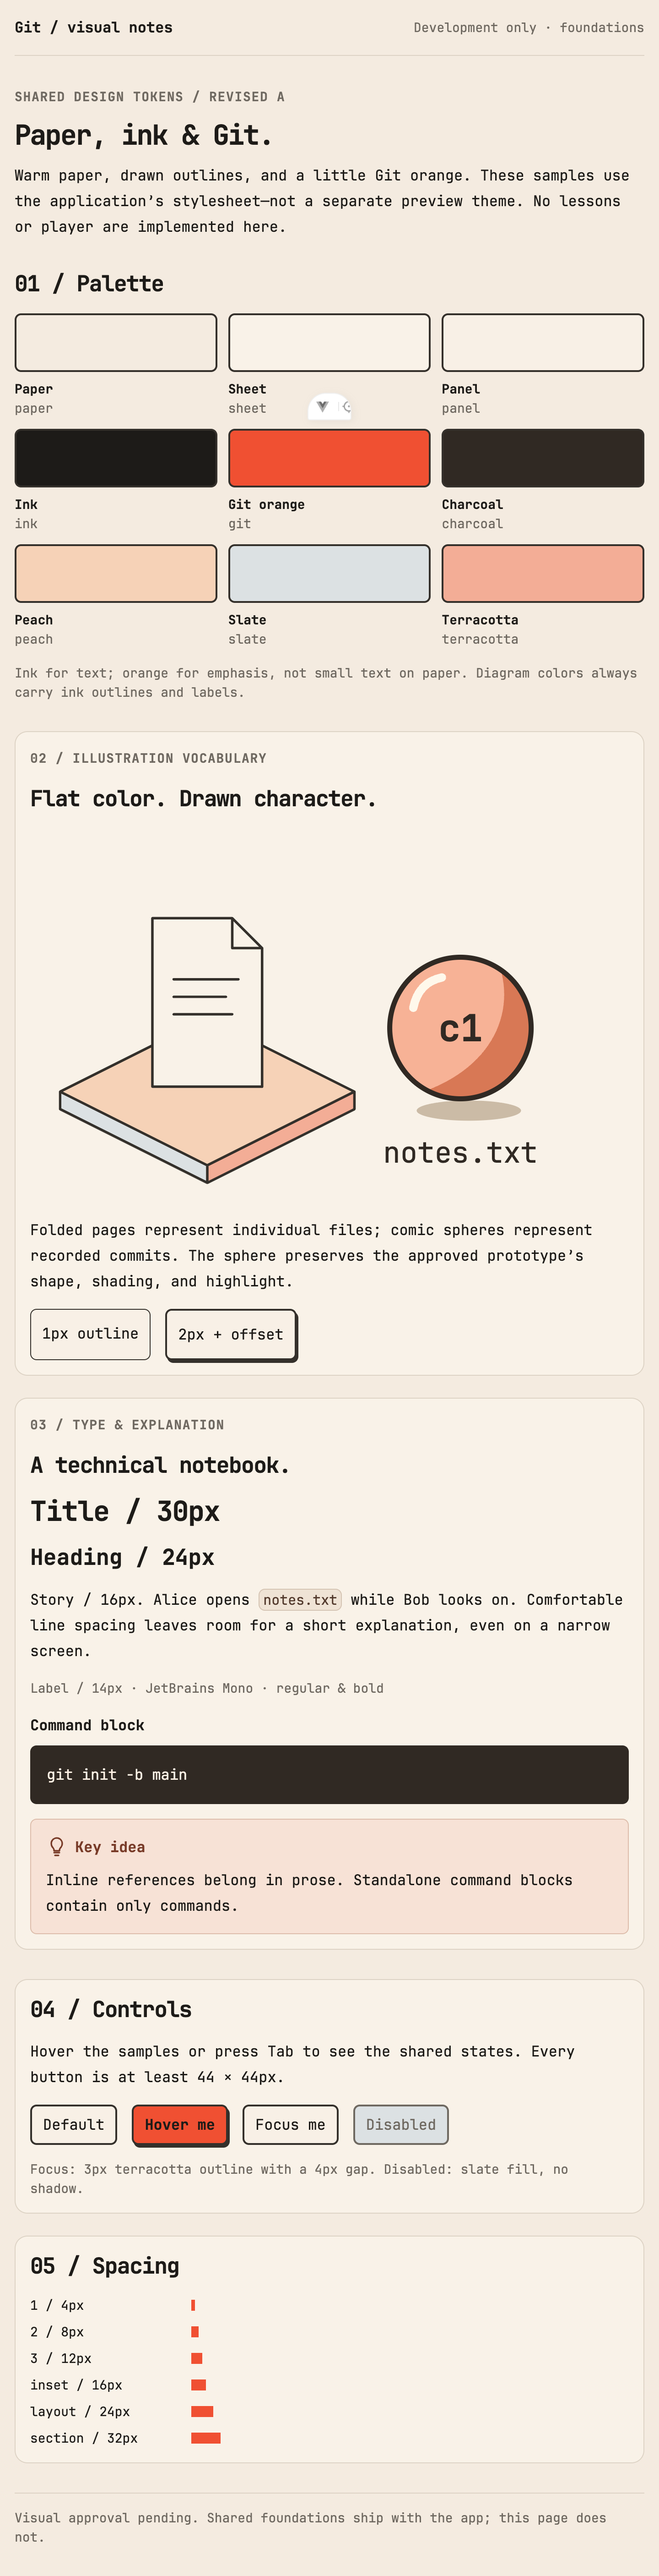
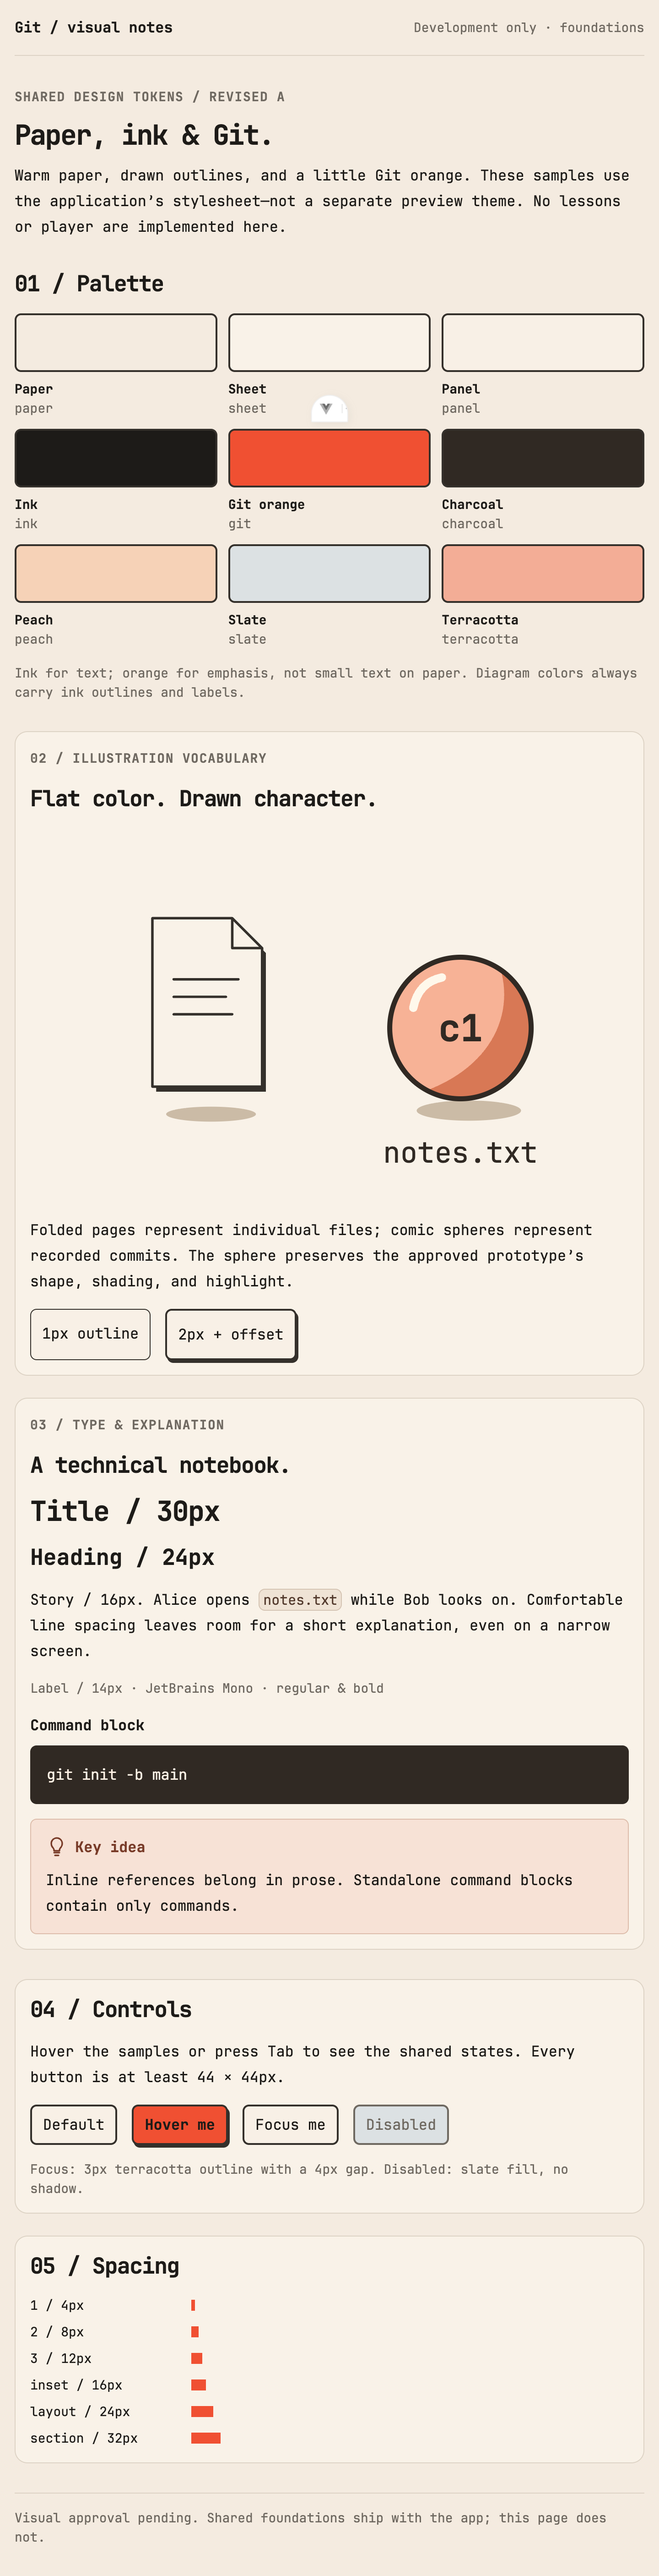
fix: replace folded-page board with offset and floating shadows

Changed region(s): [[0.0938, 0.3735, 0.5312, 0.4668], [0.4688, 0.1556, 0.5, 0.1867]]

diff --git a/src/dev/DesignShowcase.vue b/src/dev/DesignShowcase.vue
@@ -70,9 +70,8 @@ const spaces = [
               prototype’s clipped side shading, cream highlight, bold outline, and small ground
               shadow. These are styling samples, not a lesson state.
             </desc>
-            <path d="M24 211 142 152 260 211 142 270Z" class="fill-peach stroke-outline" />
-            <path d="M24 211v14l118 59v-14Z" class="fill-slate stroke-outline" />
-            <path d="m142 270 118-59v14l-118 59Z" class="fill-terracotta stroke-outline" />
+            <ellipse cx="145" cy="229" rx="36" ry="6" class="fill-ground-shadow" />
+            <path d="M98 72h64l24 24v111H98Z" transform="translate(3 4)" class="fill-outline" />
             <path d="M98 72h64l24 24v111H98Z" class="fill-sheet stroke-outline" />
             <path
               d="M162 72v24h24M115 121h52m-52 14h42m-42 14h47"
@@ -83,7 +82,7 @@ const spaces = [
             </defs>
             <!-- Preserve final revised A geometry from HistoryPrototype.vue, not a redrawing. -->
             <g transform="translate(345 160) scale(1.35)">
-              <ellipse cx="5" cy="49" rx="31" ry="6" class="fill-commit-shadow" />
+              <ellipse cx="5" cy="49" rx="31" ry="6" class="fill-ground-shadow" />
               <circle r="42" class="fill-commit-current" />
               <path
                 d="M20-45C36-12 20 26-29 40L-29 60H60V-45Z"

diff --git a/src/styles/main.css b/src/styles/main.css
@@ -18,7 +18,7 @@
   --color-terracotta: #f3ad96;
   --color-commit-current: #f7b296;
   --color-commit-current-shade: #d87855;
-  --color-commit-shadow: #cbbba6;
+  --color-ground-shadow: #cbbba6;
   --color-commit-highlight: #fff8eb;
   --color-hover: #f5b5a2;
   --color-focus: #a33723;

diff --git a/.scratch/git-visual-guide-foundation/issues/02-establish-and-review-shared-design-tokens.md b/.scratch/git-visual-guide-foundation/issues/02-establish-and-review-shared-design-tokens.md
@@ -28,3 +28,5 @@ Implemented shared foundations and `/__design/` (launch with `pnpm dev`; instruc
 Checks: focused Vitest, typecheck, build/artifact check, and one Chromium smoke per dev/preview passed. Reviewed [desktop](../screenshots/tokens-desktop.png), [phone](../screenshots/tokens-phone.png), [320px](../screenshots/tokens-narrow.png), [200% zoom](../screenshots/tokens-zoom-200.png), and [control states](../screenshots/tokens-control-states.png): no horizontal overflow, 16px story samples, buttons ≥44×44px. Active text contrast ≥4.60:1; command text 13.01:1; focus/panel 5.95:1 (disabled text 4.12:1, inactive-control exemption). Real Chromium zoom confirmed 1440px window →720 CSS px, DPR 2. Initial failures were a missing showcase (expected red test), absent styles in the old build (expected artifact-check failure), an overbroad URL check matching Tailwind’s license comment, missing DOM test types, and headless-shell zoom/capture limitations; all corrected. Final `pnpm verify` passed (lint, format, types, 2 unit tests, build, artifact check, 2 dev + 2 preview tests including starter smoke). Independent Standards and Spec reviews found no issues. Commit hook initially rejected trailing whitespace in the upstream OFL text; removed that whitespace without changing the license wording. Human visual approval is still pending.
 
 Human requested the prototype sphere rather than the redrawn sample. Restored the exact revised-A sphere paths, clipped side shade, cream highlight, outline, ground shadow, and label proportions from `HistoryPrototype.vue`, with shared color tokens; refreshed desktop/phone/320px/200% captures (no overflow). Folded-page SVGs are for individual working/staged files, starting with untracked `notes.txt` in the first lesson; spheres remain commit snapshots. Approval remains pending.
+
+Human confirmed the restored sphere is correct and requested removal of the square board beneath the folded page. Removed that board and, on the human’s next request, added a small solid offset shadow behind the folded page, then an oval ground shadow beneath it to convey floating. The page and sphere share the ground-shadow color token. The approved sphere is unchanged. This confirms the sphere, not approval of all visual foundations.
